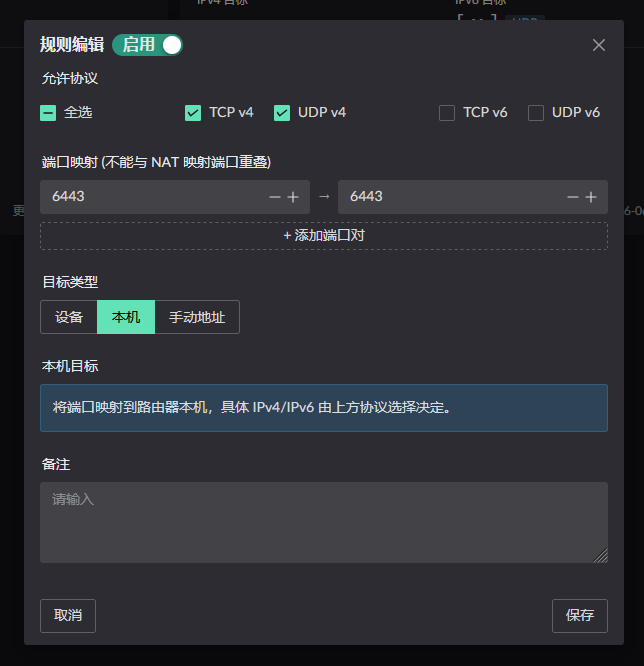
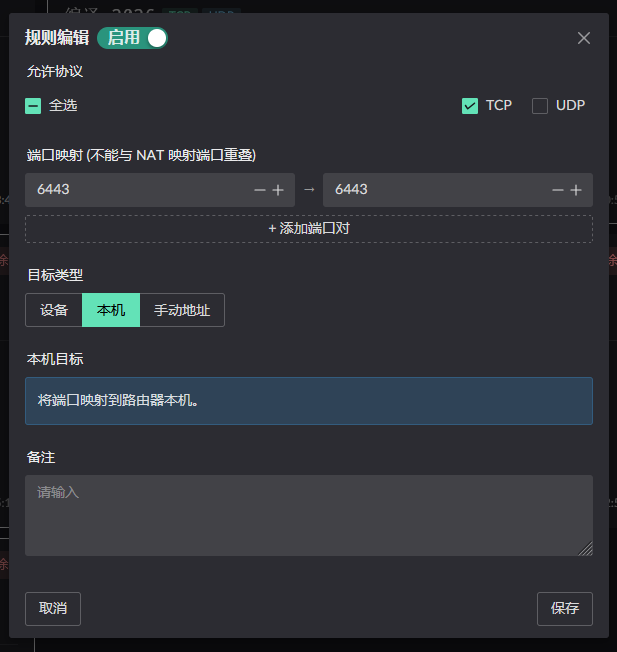
docs: rework basic network setup guide with local images and new PPPoE intro

diff --git a/getting-started/basic-network-setup.md b/getting-started/basic-network-setup.md
@@ -1,143 +1,132 @@
 # Basic Network Setup
 
-> This guide takes you through the minimum configuration needed to get online: assign interface zones → configure how WAN connects → configure LAN and DHCP.
+> This guide walks you through Landscape Router's basic network configuration: assigning zones to your network interfaces and setting up IP addresses, so your router can get online.
 
-## Prerequisites
+## The starting state
 
-- You have finished [Manual Deployment](../intro/manual-deployment.md) and can reach the management interface
-- At least two interfaces: one facing the modem / upstream router (WAN), one facing your internal switch or PC (LAN)
+The virtual machine currently has two network interfaces: `ens32`, `ens33`.
+![The current initial state](./basic-network-setup/start.png)
 
-::: tip
-Landscape will start with only one interface, but it cannot perform routing that way.
+## Switching interface zones
+
+Before anything can be configured, each interface must first be switched to a specific zone.
+
+::: tip In simple terms
+**WAN** = the port connected to the modem / external network  
+**LAN** = the port connected to your PC / switch.
+
+For details, see: [Zone](../reference/interface-zone)
 :::
 
-## Step 1: Assign interface zones
+Click the interface you want; it will highlight. The `interface panel` expands on the right — click `ZONE` to open the zone switching settings.
 
-In Landscape every interface must belong to a **Zone** before any service can be configured on it.
+![Interface panel](./basic-network-setup/iface-info.png)
+![Zone switching](./basic-network-setup/change-zone.png)
 
-There are three zones; see [Zone](../reference/interface-zone.md) for the details:
+The final result: both interfaces are in the correct zones and are both `UP`.
 
-| Zone          | Purpose                                                                           |
-| ------------- | --------------------------------------------------------------------------------- |
-| **WAN**       | The interface that reaches the internet                                           |
-| **LAN**       | The interface that serves the internal network                                    |
-| **Undefined** | Unassigned; the default for a new interface, and usable as a bridge sub-interface |
+![](./basic-network-setup/zone-result.png)
 
-Find the zone switch button in the interface list:
+::: details My interface is `DOWN`, what should I do
+When an interface is `DOWN`, you need to bring it up and set it to start on boot. Click the `ON` / `BOOT` buttons on the left of the interface panel, enabling them one by one.
+![](./basic-network-setup/boot-iface.png)
 
-![](../zh/reference/zone-switching/1.png)
-
-Set the interface facing the modem to **WAN**, and the one facing your internal network to **LAN**.
-
-::: warning
-An interface in the WAN zone cannot be a bridge member. If you intend to bridge several internal ports into one LAN, leave those ports Undefined and attach them to the bridge — see [Creating a bridge](../reference/basic-settings.md#creating-a-bridge).
+If the interface is still DOWN after that, make sure the network cable is plugged in.
 :::
 
-## Step 2: Configure how WAN connects
+## Configuring the WAN port so the router can get online
 
-The WAN interface needs an IP before it can reach the internet. Pick one of the three methods to match your line; see [Interface IP Settings](../reference/ipv4.md) for the UI details.
+Click the `IP` button below the interface card:
+![](./basic-network-setup/ip.png)
+
+The WAN port needs an IP address to reach the internet. There are three ways to do it — pick the one that matches your network environment.
 
 ::: tabs
-== PPPoE (most common for home broadband)
-
-Add a PPPoE account on the WAN interface, fill in the credentials your ISP gave you, and tick the option to make it the default route.
-
-![](../zh/reference/ipv4/pppoe_edit.png)
-
-AC Name can normally be left empty.
-
 == DHCP client
 
-Use this when the upstream device is already a router. Once enabled, the address is obtained automatically.
+For scenarios where the modem dials up or the upstream router already has DHCP enabled.
 
-![](../zh/reference/ipv4/dhcp_v4_client.png)
+1. Make sure the interface is assigned to the **WAN** zone
+2. Select the **DHCP client** configuration method
+3. Fill in a hostname (optional; leave empty to use the current hostname)
+4. Click save
 
-The hostname is optional and defaults to the machine's own hostname.
+![DHCP client](./basic-network-setup/dhcp_v4_client.png)
+
+== PPPoE dial-up
+
+For when the modem is in bridge mode and you need to dial up with your broadband account and password.
+
+1. Make sure the interface is assigned to the **WAN** zone
+2. Go to the **IPv4** section of the page and click the **PPPoE** tab
+3. Add a PPPoE account on the WAN interface
+4. Fill in the broadband account and password
+5. Enable **Set as default route** on the PPPoE account
+6. AC Name can usually be left empty
+
+![PPPoE configuration](./basic-network-setup/pppd-intro.png)
+
+![PPPoE account editing](./basic-network-setup/pppoe_edit.png)
 
 == Static IP
 
-Use this when your ISP or upstream gave you a fixed address. Fill in the IP, mask and gateway.
+For enterprise dedicated lines or scenarios requiring a fixed IP.
 
-![](../zh/reference/ipv4/static_ip.png)
+1. Make sure the interface is assigned to the **WAN** zone
+2. Select the **Static IP** method
+3. Fill in the IP address, subnet mask and gateway
+4. If it should be the default route, enable **IPv4 default route**
+5. Click save
 
-Remember to tick the default route option.
+![Static IP](./basic-network-setup/static_ip.png)
+
 :::
 
-## Step 3: Enable the necessary WAN-side services
+So far we have configured how the router itself gets online. Next, we configure IP assignment on the LAN side.
 
-After getting an address, a few services still need enabling before internal traffic can get out. Find the service buttons on the WAN interface:
+## Configuring the LAN port to assign IPs to the internal network
 
-![](../zh/reference/zone-switching/10.png)
+The LAN port connects internal devices; the DHCPv4 service is usually enabled on it.
 
-| Service       | Required?            | Notes                                                               |
-| ------------- | -------------------- | ------------------------------------------------------------------- |
-| **NAT**       | Required             | Internal addresses must be translated to the WAN address to get out |
-| **Route WAN** | Required             | The forwarding service; should be enabled                           |
-| **Firewall**  | Recommended          | Blocks inbound connections initiated from outside                   |
-| **MSS clamp** | Recommended on PPPoE | Prevents large packets being dropped, which breaks some sites       |
+1. Make sure the interface is assigned to the **LAN** zone
 
-::: danger Enabling WAN NAT: be careful
-If you are accessing the management interface **from the WAN interface**, you must set up a **Static NAT mapping** before enabling the `NAT service`, otherwise you will **lose connection**!
+2. Click the `DHCPv4` service button below the interface
+   ![](./basic-network-setup/dhcpv4-server.png)
+
+3. Configure the subnet to use
+   ![](./basic-network-setup/dhcpv4-config.png)
+4. Click save
+
+## Configuring WAN / LAN forwarding and routing services
+
+After the steps above, the current network state is:
+
+1. LAN devices can reach the router via the DHCPv4 configuration
+2. The router itself can get online
+3. LAN-side devices cannot access the internet
+
+::: danger Enable WAN NAT with care!!!
+Before enabling the `NAT service`, if you access the router **from the WAN interface**, you must set up a `Static NAT mapping`. Otherwise you will **lose connection**!
 :::
 
 ::: details Static NAT mapping
-Click **Static NAT** in the left menu to open the static NAT configuration page. Click the add button and configure as shown below to access from WAN. If you connect via LAN, you can ignore this.
-![](../zh/getting-started/basic-network-setup/static-nat.png)
+Click **Static NAT** in the left menu to open the static NAT configuration page.
+Click the add button and configure as shown below to access the router from WAN. If you connect via LAN, you can ignore this.
+![](./basic-network-setup/static-nat.png)
+
 :::
 
-Unless you have special requirements, enabling them with the defaults is fine.
+Now enable the WAN/LAN routing and forwarding services, as well as the NAT service:
+![](./basic-network-setup/wr-lr.png)
 
-## Step 4: Configure LAN
+## Verifying network connectivity
 
-### Give the LAN interface a static IP
+After configuration, check that the network works normally:
 
-The LAN interface needs a fixed address, which becomes the gateway for internal devices. For example `192.168.5.1`:
+1. Open **Metrics Monitoring → Connection Info** to view the current connection status
+2. Run `ping 8.8.8.8` on an internal device to test internet connectivity
+3. Run `nslookup baidu.com` to test DNS resolution
 
-![](../zh/reference/ipv4/static_ip.png)
-
-::: tip
-This address has to match the `server address` in the DHCP step below.
+::: tip Next steps
+After the basic network configuration, we recommend continuing with [DNS Setup](./dns-setup) and [Flow Setup](./flow-setup).
 :::
-
-### Enable the DHCP service
-
-This lets internal devices obtain addresses automatically. Find the DHCPv4 service on the LAN interface:
-
-![](../zh/reference/dhcpv4/1.png)
-
-The configuration screen:
-
-![](../zh/reference/dhcpv4/2.png)
-
-The fields that matter:
-
-| Field          | Example         | Notes                                   |
-| -------------- | --------------- | --------------------------------------- |
-| Pool start     | `192.168.5.100` | Allocation begins at this address       |
-| Pool end       | `192.168.5.200` | Allocation stops at this address        |
-| Server address | `192.168.5.1`   | The gateway address; matches the LAN IP |
-| Mask           | `24`            | Equivalent to 255.255.255.0             |
-| Lease time     | `43200`         | Seconds; 12 hours by default            |
-
-### Enable LAN route forwarding
-
-Also in the LAN interface's services, enable **Route LAN**:
-
-![](../zh/reference/zone-switching/11.png)
-
-## Verifying
-
-Once connected, an internal device should be able to:
-
-1. Obtain a `192.168.5.x` address automatically
-2. Resolve domains (Landscape ships with a Cloudflare upstream DNS already configured)
-3. Reach the internet normally
-
-If domain resolution misbehaves, see [DNS Setup](./dns-setup.md) and [DNS Related](../faq/dns.md).
-
-## Next steps
-
-- [DNS Setup](./dns-setup.md) — change the upstream DNS, configure redirects
-- [Flow Setup](./flow-setup.md) — send different devices out through different egresses
-- [LAN Hostnames and the LAN Suffix](../reference/lan-hostname.md) — reach internal devices as `nas.lan`
-- [IPv6 Configuration](../reference/ipv6/index.md) — enable IPv6

diff --git a/zh/getting-started/basic-network-setup.md b/zh/getting-started/basic-network-setup.md
@@ -1,6 +1,6 @@
 # 基础上网配置
 
-> 本文引导你完成 Landscape Router 的基础网络配置：为网卡分配区域、设置 IP 地址、启用防火墙，让你的路由器可以正常上网。
+> 本文引导你完成 Landscape Router 的基础网络配置：为网卡分配区域、设置 IP 地址，让你的路由器可以正常上网。
 
 ## 起始状态介绍
 
@@ -63,7 +63,7 @@ WAN 口需要配置 IP 才能连上互联网，有三种方式，根据你的网
 5. 在 PPPoE 账号中开启 **设为默认路由**
 6. AC Name 通常留空即可
 
-![PPPoE 配置](./basic-network-setup/4.png)
+![PPPoE 配置](./basic-network-setup/pppd-intro.png)
 
 ![PPPoE 账号编辑](./basic-network-setup/pppoe_edit.png)
 
